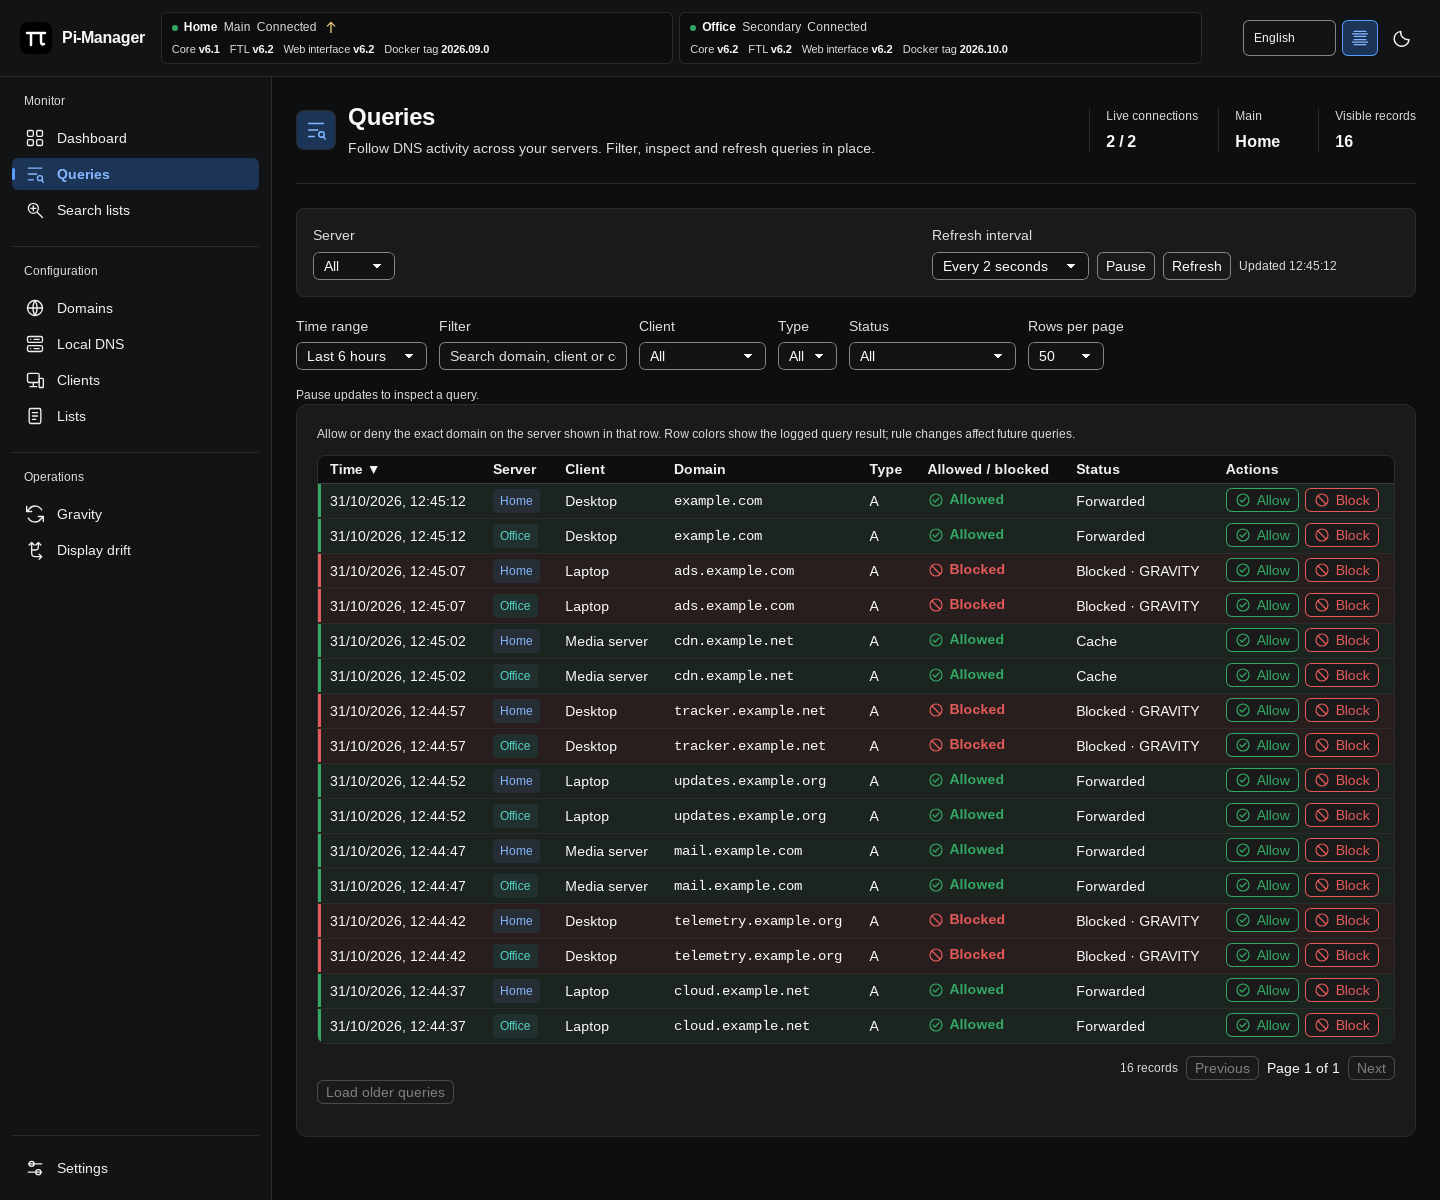
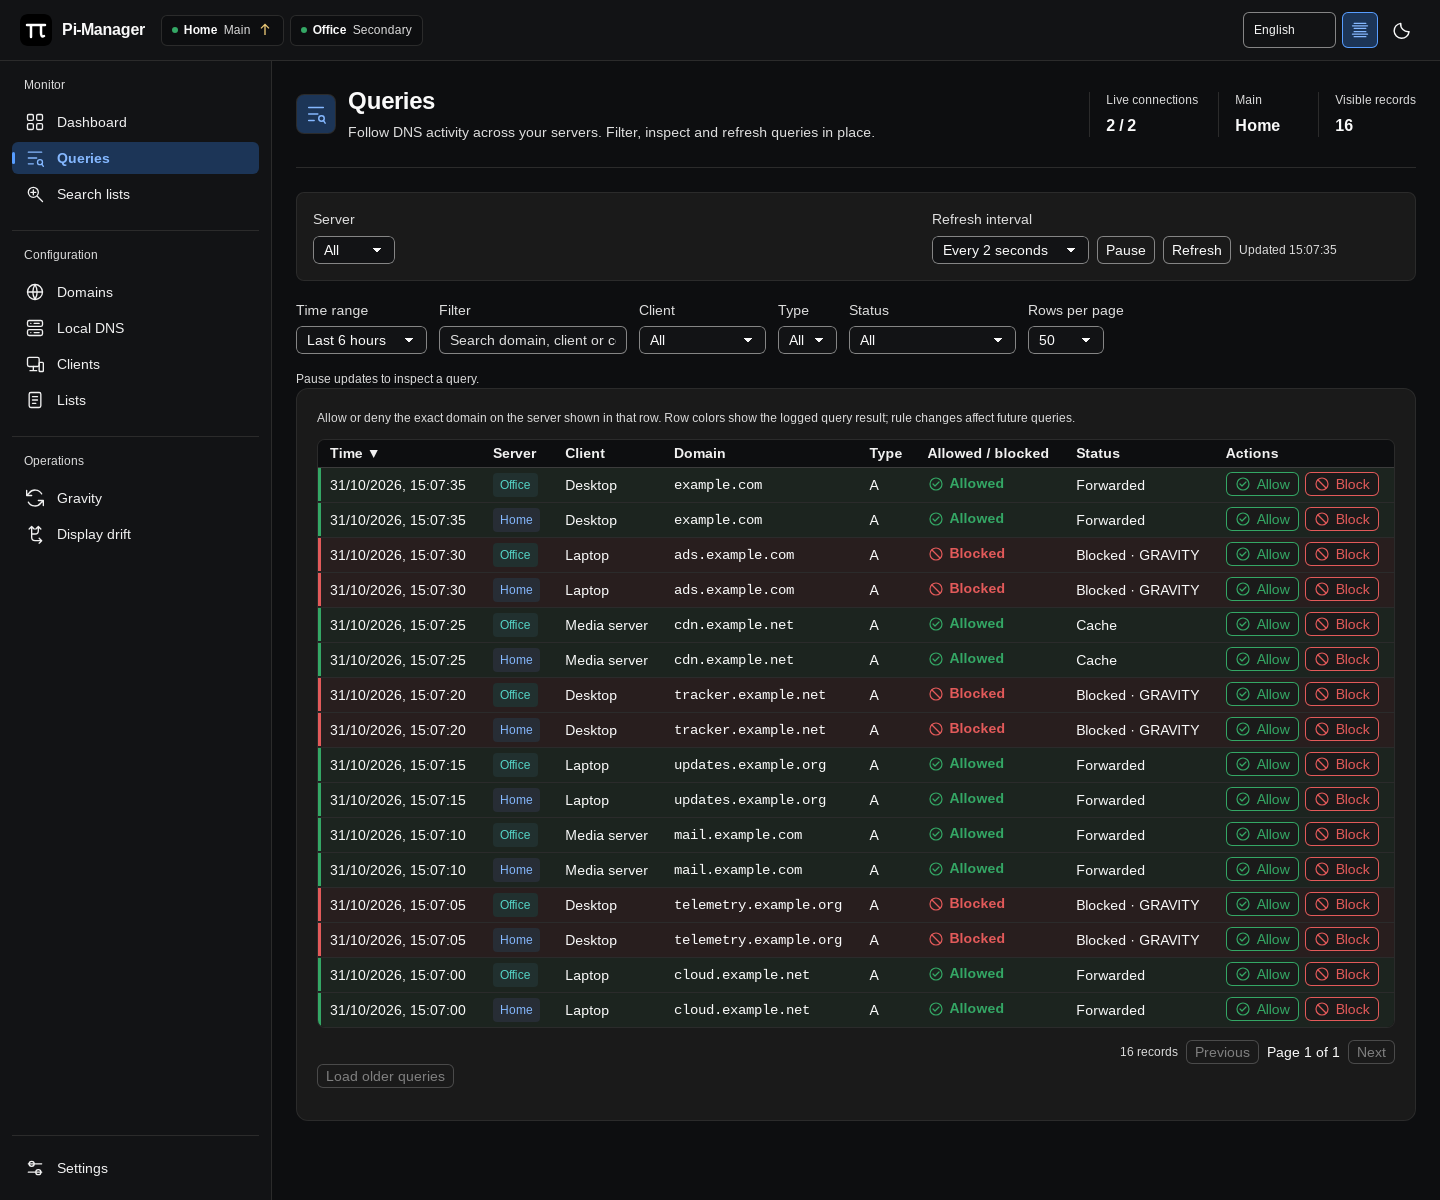
feat: simplify server status badges (0.2.13)

diff --git a/assets/app.js b/assets/app.js
@@ -158,25 +158,43 @@ function showInspector(title,body,actions="") {
     return inspector;
 }
 function versionLabel(component){return t(({core:"versionCore",ftl:"versionFTL",web:"versionWeb",docker:"versionDocker"})[component] || "versionUnknown");}
+function versionStatusText(status) {
+    return t(({update:"versionUpdate",current:"versionCurrent",unknown:"versionUnknown",notDocker:"versionNotDocker"})[status] || "versionUnknown");
+}
+function serverStatusTooltip(server,health) {
+    const info=health?.versions,lines=[server.label+" · "+t(server.role || "secondary")];
+    if(!info || info.unavailable)lines.push(t("versionsUnavailable"));
+    else for(const item of info.components || [])lines.push(`${versionLabel(item.component)}: ${item.local || "—"} → ${item.latest || "—"} (${versionStatusText(item.status)})`);
+    if(info?.checkedAt)lines.push(t("versionChecked",{time:fmtDate(info.checkedAt)}));
+    const metrics=healthText(health);if(metrics)lines.push(metrics);
+    return lines.join("\n");
+}
 function showServerVersions(server) {
     const info=hostHealth.get(server.id)?.versions,components=info?.components || [];
-    const states={update:"versionUpdate",current:"versionCurrent",unknown:"versionUnknown",notDocker:"versionNotDocker"};
-    const body=`<p>${textHTML("versionHelp")}</p>${!info || info.unavailable ? `<p class="notice warning">${textHTML("versionsUnavailable")}</p>` : `<div class="sk-table table-wrap"><table class="datatable"><thead><tr>${["component","installedVersion","latestVersion","status"].map(key=>`<th>${textHTML(key)}</th>`).join("")}</tr></thead><tbody>${components.map(item=>`<tr><td>${escapeHtml(versionLabel(item.component))}</td><td>${escapeHtml(item.local || "—")}</td><td>${escapeHtml(item.latest || "—")}</td><td><span class="version-state version-${item.status=== "update" ? "update" : "neutral"}">${textHTML(states[item.status] || "versionUnknown")}</span></td></tr>`).join("")}</tbody></table></div>`}${components.some(item=>item.component==="docker" && item.local) ? `<p class="notice">${textHTML("dockerUpgradeHelp")}</p>` : ""}${info?.checkedAt ? `<p class="count-note">${textHTML("versionChecked",{time:fmtDate(info.checkedAt)})}</p>` : ""}`;
+    const body=`<p>${textHTML("versionHelp")}</p>${!info || info.unavailable ? `<p class="notice warning">${textHTML("versionsUnavailable")}</p>` : `<div class="sk-table table-wrap"><table class="datatable"><thead><tr>${["component","installedVersion","latestVersion","status"].map(key=>`<th>${textHTML(key)}</th>`).join("")}</tr></thead><tbody>${components.map(item=>`<tr><td>${escapeHtml(versionLabel(item.component))}</td><td>${escapeHtml(item.local || "—")}</td><td>${escapeHtml(item.latest || "—")}</td><td><span class="version-state version-${item.status=== "update" ? "update" : "neutral"}">${escapeHtml(versionStatusText(item.status))}</span></td></tr>`).join("")}</tbody></table></div>`}${components.some(item=>item.component==="docker" && item.local) ? `<p class="notice">${textHTML("dockerUpgradeHelp")}</p>` : ""}${info?.checkedAt ? `<p class="count-note">${textHTML("versionChecked",{time:fmtDate(info.checkedAt)})}</p>` : ""}`;
     showInspector(t("serverVersions",{server:server.label}),body);
 }
 function renderPills() {
     updateViewChrome(state.page?.container);
-    const pills = $("#serverPills"),focused=document.activeElement?.closest("[data-host-versions]")?.dataset.hostVersions;
-    setHTML(pills,state.servers.map(s => {
-        const h=hostHealth.get(s.id),online=h?.sampledAt ? h.reachable : s.connected;
-        const status=s.checking ? "connecting" : !online ? (h?.sampledAt ? "unreachable" : "disconnected") : !s.connected ? "disconnected" : h?.blocking === "disabled" ? "disabled" : "connected";
-        const info=h?.versions,components=info?.components || [],updates=components.filter(item=>item.status==="update");
-        const summary=components.filter(item=>item.local).map(item=>`<span>${escapeHtml(versionLabel(item.component))} <b>${escapeHtml(item.local)}</b></span>`).join("");
-        const updateText=updates.length ? t("hostUpdates",{server:s.label,components:updates.map(item=>versionLabel(item.component)).join(", ")}) : t("serverVersions",{server:s.label});
-        return `<button type="button" data-host-versions="${s.id}" class="pill ${online ? "on" : "off"}" aria-label="${escapeHtml(updateText)}" title="${escapeHtml(updateText+" · "+healthText(h))}"><span class="dot"></span><b>${escapeHtml(s.label)}</b><span class="role-badge">${textHTML(s.role || "secondary")}</span><span>${textHTML(status)}</span>${updates.length ? `<span class="upgrade-indicator" role="img" aria-label="${textHTML("versionUpdate")}"><svg viewBox="0 0 24 24" fill="none" stroke="currentColor" stroke-width="2" aria-hidden="true"><path d="M12 20V4m-6 6 6-6 6 6"/></svg></span>` : ""}<span class="server-versions">${summary || "—"}${info?.unavailable && summary ? ` · ${textHTML("versionsUnavailable")}` : ""}</span></button>`;
-    }).join(""));
+    const pills=$("#serverPills"),existing=new Map($$("[data-host-versions]",pills).map(button=>[button.dataset.hostVersions,button]));
+    for(const [index,server] of state.servers.entries()) {
+        const health=hostHealth.get(server.id),online=health?.sampledAt ? health.reachable : server.connected;
+        const status=server.checking ? "connecting" : !online ? (health?.sampledAt ? "unreachable" : "disconnected") : !server.connected ? "disconnected" : health?.blocking === "disabled" ? "disabled" : "connected";
+        const updates=(health?.versions?.components || []).filter(item=>item.status==="update");
+        const updateText=updates.length ? t("hostUpdates",{server:server.label,components:updates.map(item=>versionLabel(item.component)).join(", ")}) : t("serverVersions",{server:server.label});
+        let button=existing.get(server.id);
+        if(!button){button=document.createElement("button");button.type="button";button.dataset.hostVersions=server.id;}
+        existing.delete(server.id);
+        button.className="pill "+(online ? "on" : "off");
+        button.setAttribute("aria-label",updateText+" · "+t(status));
+        const tooltip=serverStatusTooltip(server,health);if(button.title!==tooltip)button.title=tooltip;
+        const content=`<span class="dot"></span><b>${escapeHtml(server.label)}</b><span class="role-badge">${textHTML(server.role || "secondary")}</span>${updates.length ? `<span class="upgrade-indicator" role="img" aria-label="${textHTML("versionUpdate")}"><svg viewBox="0 0 24 24" fill="none" stroke="currentColor" stroke-width="2" aria-hidden="true"><path d="M12 20V4m-6 6 6-6 6 6"/></svg></span>` : ""}${status!=="connected" ? `<span>${textHTML(status)}</span>` : ""}`;
+        // Retain the hovered/focused badge and its contents during health polls.
+        if(button._statusHTML!==content){button.innerHTML=content;button._statusHTML=content;}
+        if(pills.children[index]!==button)pills.insertBefore(button,pills.children[index] || null);
+    }
+    for(const button of existing.values())button.remove();
     pills.onclick=event=>{const button=event.target.closest("[data-host-versions]");if(button){const server=serverById(button.dataset.hostVersions);if(server)showServerVersions(server);}};
-    if(focused)$( `[data-host-versions="${focused}"]`,pills)?.focus({preventScroll:true});
 }
 
 function renderShell() {

diff --git a/assets/messages.js b/assets/messages.js
@@ -45,7 +45,7 @@ const MESSAGES = {
     serverVersions: ["Versions · {server}", "Versioner · {server}", "Εκδόσεις · {server}", "Versioner · {server}"],
     versionHelp: ["Versions come from this Pi-hole server. Latest-release metadata may be missing or delayed. Custom and development builds are shown as unknown.", "Versionerne kommer fra denne Pi-hole-server. Nyeste udgivelse kan mangle eller være forsinket. Tilpassede udviklingsversioner vises som ukendte.", "Οι εκδόσεις προέρχονται από αυτόν τον Pi-hole. Τα στοιχεία νεότερης έκδοσης μπορεί να λείπουν ή να καθυστερούν. Προσαρμοσμένες εκδόσεις εμφανίζονται ως άγνωστες.", "Versionerna kommer från denna Pi-hole-server. Metadata om senaste version kan saknas eller vara fördröjd. Anpassade utvecklingsversioner visas som okända."],
     dockerUpgradeHelp: ["For Docker installations, upgrade by deploying a newer Pi-hole image. Component versions alone do not identify the image tag to deploy.", "Opgrader Docker-installationer ved at bruge et nyere Pi-hole-image. Komponentversioner identificerer ikke alene image-tagget.", "Για εγκαταστάσεις Docker αναπτύξτε νεότερη εικόνα Pi-hole. Οι εκδόσεις στοιχείων δεν προσδιορίζουν από μόνες τους την ετικέτα εικόνας.", "Uppgradera Docker-installationer genom att distribuera en nyare Pi-hole-avbildning. Komponentversioner identifierar inte ensamma vilken tagg som ska användas."],
-    versionChecked: ["Checked {time}. Version checks are cached for up to 15 minutes.", "Kontrolleret {time}. Versioner caches i op til 15 minutter.", "Έλεγχος {time}. Οι πληροφορίες αποθηκεύονται έως 15 λεπτά.", "Kontrollerad {time}. Versionskontroller cachas i upp till 15 minuter."],
+    versionChecked: ["Checked {time}. Version checks refresh hourly.", "Kontrolleret {time}. Versioner opdateres hver time.", "Έλεγχος {time}. Οι εκδόσεις ανανεώνονται κάθε ώρα.", "Kontrollerad {time}. Versioner uppdateras varje timme."],
 
     dashboardIntro: ["Monitor DNS activity, protection and server health across your network.", "Overvåg DNS-aktivitet, beskyttelse og serverstatus på dit netværk.", "Παρακολουθήστε τη δραστηριότητα DNS, την προστασία και την υγεία των διακομιστών του δικτύου σας.", "Övervaka DNS-aktivitet, skydd och serverhälsa i ditt nätverk."],
     skipToContent: ["Skip to main content", "Gå til hovedindhold", "Μετάβαση στο κύριο περιεχόμενο", "Hoppa till huvudinnehållet"],

diff --git a/assets/sekura.css b/assets/sekura.css
@@ -467,10 +467,8 @@ html,body { width:100%; min-width:0; margin:0; overflow-x:hidden; }
 .pi-workspace .search-list-form .toolbar { align-items:flex-end; }
 .pi-workspace .search-domain-field { flex:1 1 260px; }
 .pi-workspace .search-domain-field input { width:100%; }
-.pi-workspace button.pill { font-family:inherit; text-align:left; flex-wrap:wrap; max-width:100%; }
+.pi-workspace button.pill { font-family:inherit; text-align:left; max-width:100%; }
 .pi-workspace button.pill:hover { border-color:var(--sk-color-border-interactive); }
-.pi-workspace .server-versions { display:flex; flex-basis:100%; flex-wrap:wrap; gap:4px 10px; overflow-wrap:anywhere; font-size:11px; }
-.pi-workspace .server-versions > span { white-space:normal; }
 .pi-workspace .upgrade-indicator { display:inline-flex; color:var(--sk-color-status-warning-text); animation:pi-upgrade 1.6s ease-in-out infinite; }
 .pi-workspace .upgrade-indicator svg { width:16px; height:16px; }
 .pi-workspace .version-update { color:var(--sk-color-status-warning-text); font-weight:600; }

diff --git a/desktop_smoke_test.go b/desktop_smoke_test.go
@@ -115,11 +115,15 @@ func TestNativeDesktop(t *testing.T) {
                 hostHealth=new Map((await smokeHealth()).map(host=>[host.id,host]));renderPills();
                 const versionHost=document.querySelector('[data-host-versions="1"]');
                 assert(versionHost.querySelector(".upgrade-indicator") && !document.querySelector('[data-host-versions="2"] .upgrade-indicator'),"Update icon does not identify the outdated host");
-                assert(versionHost.textContent.includes("v6.1") && versionHost.textContent.includes("2026.09.0"),"Installed versions are missing from the top status");
+                assert(!versionHost.textContent.includes("v6.1") && !versionHost.textContent.includes("2026.09.0") && !document.querySelector(".server-versions"),"Versions are still visible outside the hover tooltip");
+                assert(versionHost.title.includes("v6.1") && versionHost.title.includes("2026.09.0") && versionHost.title.includes("v6.2") && versionHost.title.includes(t("versionFTL")) && versionHost.title.includes(t("versionWeb")),"Version hover details are missing installed/latest component versions");
+                assert(!versionHost.textContent.includes(t("connected")) && !document.querySelector('[data-host-versions="2"]').textContent.includes(t("connected")),"Connected text remains in the status badges");
+                assert(versionHost.querySelector(".role-badge").nextElementSibling===versionHost.querySelector(".upgrade-indicator"),"Update indicator is not immediately after Main/Secondary");
                 versionHost.focus();versionHost.click();
                 assert(document.querySelector("#inspectTitle").textContent.includes("One") && document.querySelectorAll("#inspectDialog tbody tr").length===4,"Version inspector lost its host or component rows");
                 assert(document.querySelectorAll("#inspectDialog .version-update").length===2 && document.querySelector("#inspectDialog").textContent.includes("v6.2"),"Version inspector did not show installed/latest component updates");
                 hostHealth.get("1").sampledAt++;renderPills();
+                assert(document.querySelector('[data-host-versions="1"]')===versionHost,"Health refresh replaced the hovered status badge");
                 document.querySelector("[data-inspect-close]").click();
                 assert(document.activeElement.dataset.hostVersions==="1","Version inspector did not restore focus after a status refresh");
                 assert(document.documentElement.dataset.skTheme===document.documentElement.dataset.theme,"Sekura theme does not match saved theme");

diff --git a/versions_test.go b/versions_test.go
@@ -49,6 +49,10 @@ func TestVersionMonitoringAndCache(t *testing.T) {
 			t.Fatal(h.Versions)
 		}
 	}
+	cached := m.versionCache["1\x00http://one.test/api"]
+	if remaining := time.Until(cached.expires); remaining < 59*time.Minute || remaining > time.Hour {
+		t.Fatal("successful version checks must refresh hourly", remaining)
+	}
 	m.sampleHost("1")
 	if requests.Load() != 1 {
 		t.Fatal("version endpoint polled with every health sample")
@@ -80,7 +84,11 @@ func TestVersionFailuresDoNotChangeReachability(t *testing.T) {
 			}
 			return jsonResponse(200, body), nil
 		})
-		h := (&HealthMonitor{app: a}).sampleHost("1")
+		monitor := &HealthMonitor{app: a}
+		h := monitor.sampleHost("1")
+		if remaining := time.Until(monitor.versionCache["1\x00http://one.test/api"].expires); remaining < 59*time.Minute || remaining > time.Hour {
+			t.Fatal("failed version checks must also wait for the hourly refresh", remaining)
+		}
 		if !h.Reachable || h.Versions == nil || !h.Versions.Unavailable {
 			t.Fatal("optional version endpoint affected host status", h)
 		}

diff --git a/versions.go b/versions.go
@@ -87,10 +87,9 @@ func (m *HealthMonitor) versions(id, serverURL string) *HostVersions {
 	}
 	info := &HostVersions{CheckedAt: now.Unix(), Components: []HostVersion{}}
 	var response versionEndpoint
-	ttl := 15 * time.Minute
+	ttl := time.Hour
 	if m.app.jsonAPI(id, "/info/version", "GET", nil, &response) != nil || response.Version == nil {
 		info.Unavailable = true
-		ttl = time.Minute
 	} else {
 		for _, item := range []struct {
 			name string

diff --git a/main.go b/main.go
@@ -8,7 +8,7 @@ import (
 	"path/filepath"
 )
 
-var version = "0.2.12"
+var version = "0.2.13"
 
 //go:embed assets/THIRD_PARTY.txt
 var thirdPartyNotices string

diff --git a/docs/using-pi-manager.md b/docs/using-pi-manager.md
@@ -41,15 +41,18 @@ English and dense mode; window decorations and tray availability vary by OS.
 
 ## Server versions and update status
 
-Each server's status at the top shows its installed **Core**, **FTL**, **Web
-interface** and **Docker tag** when reported by Pi-hole. An animated arrow marks
-hosts with a newer reported release; it respects reduced-motion preferences.
-Click a server's status to inspect installed and latest versions per component.
+The top status badges show a reachability dot, server name and **Main/Secondary**
+role. Hover over a badge to see installed and latest **Core**, **FTL**, **Web
+interface** and **Docker tag** versions. Version details stay out of the normal
+header. An animated update arrow appears immediately after the role when a
+component has a newer reported release; it respects reduced-motion preferences.
+Click a badge for the full version comparison. Connected status uses the dot;
+connection errors and disabled blocking remain explicit.
 
 ![Server version details showing available updates and Docker upgrade guidance](images/server-versions.png)
 
 Version checks use the server's [`/info/version` API](https://github.com/pi-hole/FTL/blob/master/src/api/docs/content/specs/info.yaml)
-and are cached for up to 15 minutes. Pi-hole's own latest-release metadata may
+and refresh hourly, including retries after an unavailable response. Pi-hole's own latest-release metadata may
 be missing or delayed. Custom builds, development branches and missing versions
 remain unknown; an unavailable version endpoint does not make a reachable
 server appear offline. Non-Docker installations show **Not running in Docker**.

diff --git a/README.md b/README.md
@@ -35,8 +35,9 @@ for shared styles, themes and accessible interactions.
   Select destinations, resource types and individual changes before applying.
 - **Inspect and trace queries.** Pause live updates, open query details, and find
   matching rules and subscribed lists on one host or across the fleet.
-- **Know what needs updating.** Per-host Core, FTL, Web and Docker versions, with
-  update indicators and an installed/latest comparison.
+- **Know what needs updating.** Hover for per-host Core, FTL, Web and Docker
+  versions, checked hourly. Compact badges flag updates beside the server role;
+  click for the installed/latest comparison.
 - **Fewer repetitive clicks.** Select multiple records and target servers for
   management actions. Tables update in place without reloading the page.
 - **Background monitoring.** Minimize to the tray and keep monitoring server
